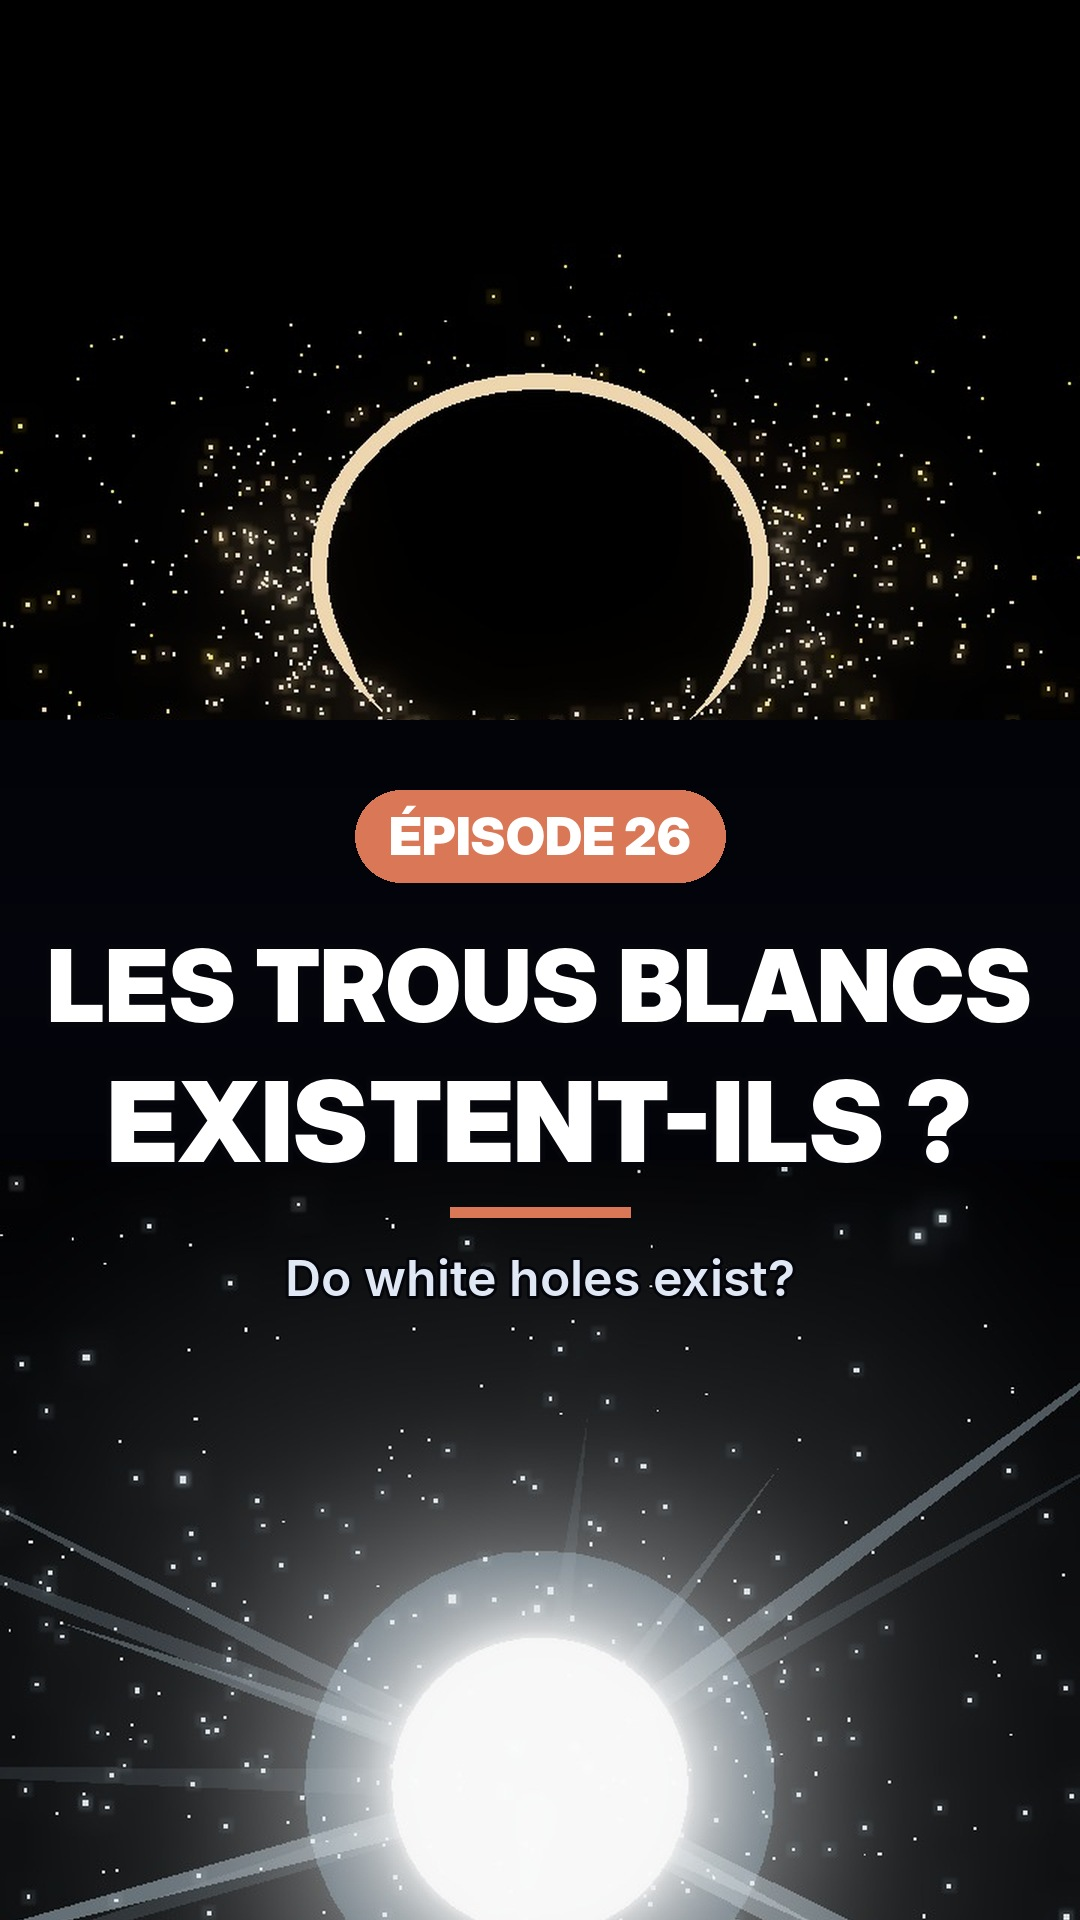
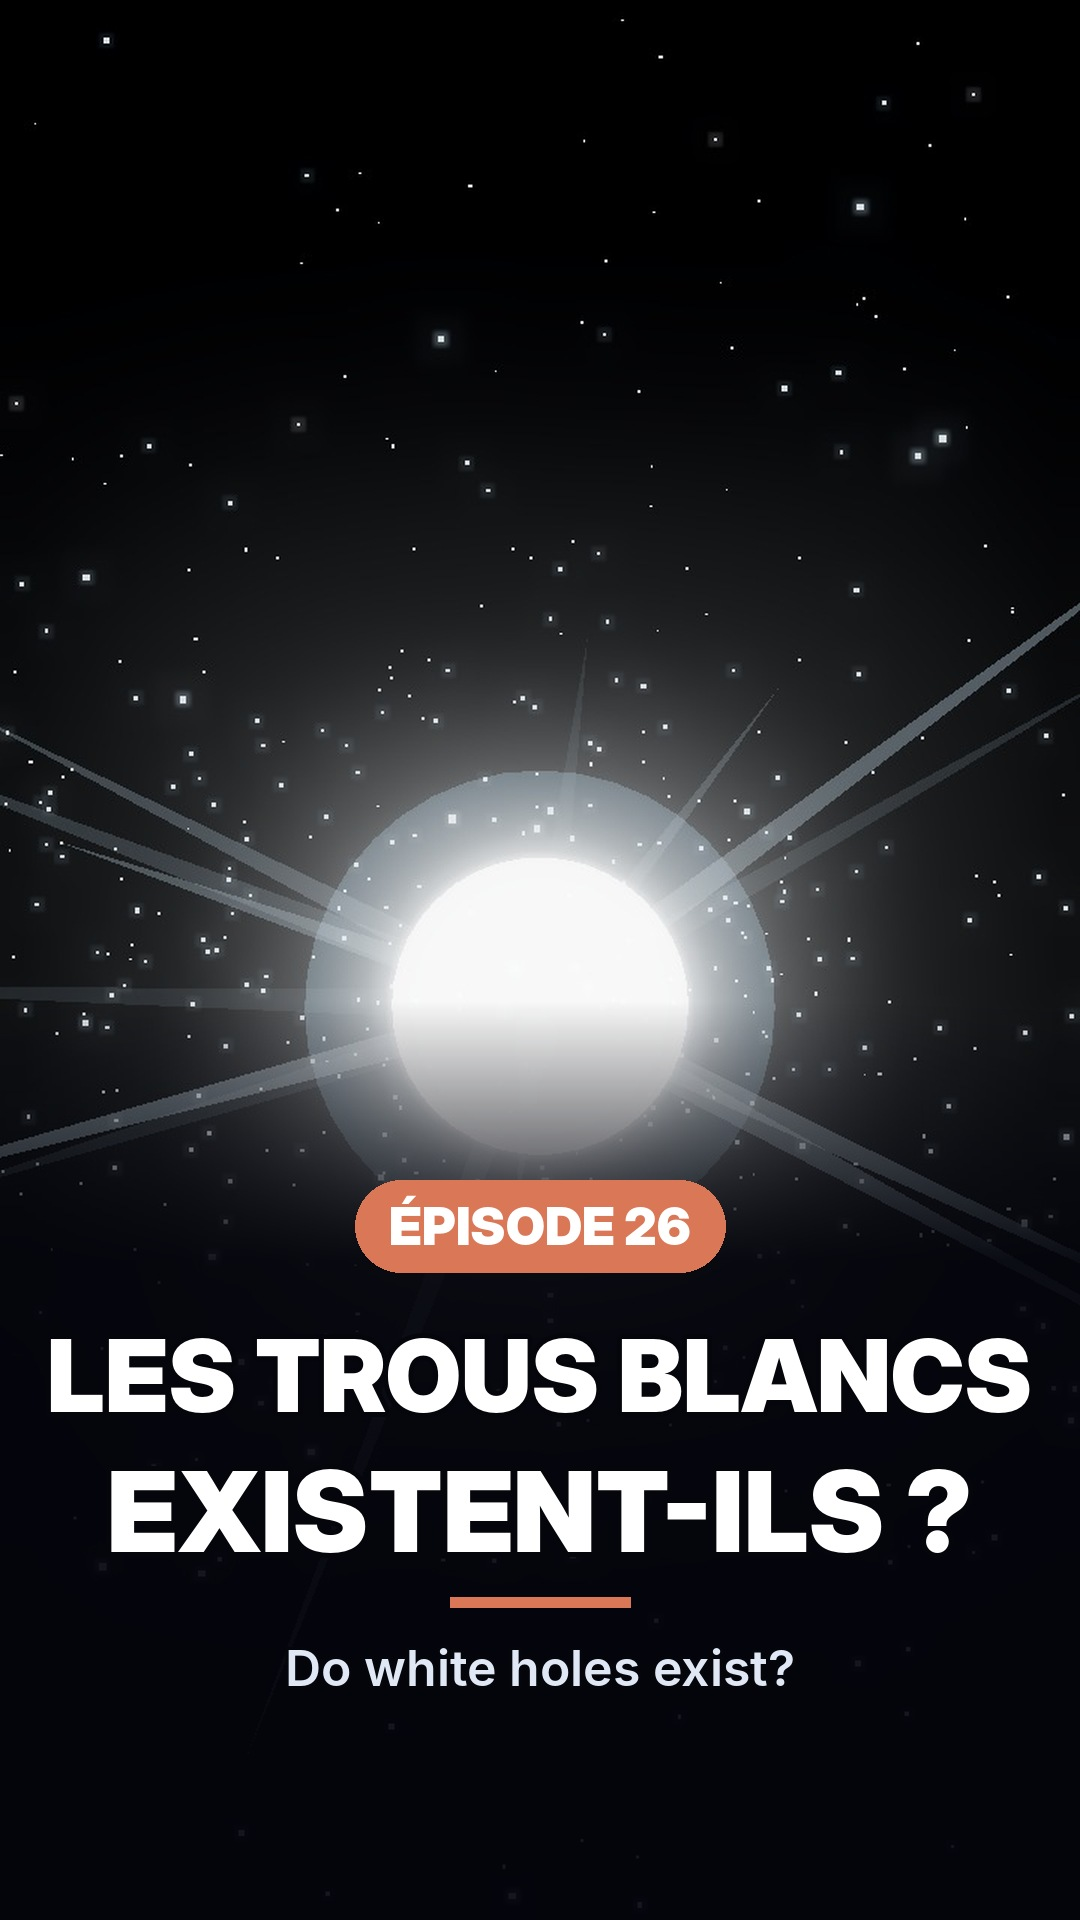
Épisode 26 : couverture centrée sur le trou blanc
Claude-Session: https://claude.ai/code/session_01Vihxwry9nwKDrZZznKang6

diff --git a/ep26/make_cover26.py b/ep26/make_cover26.py
@@ -1,4 +1,4 @@
-# Couverture de l'episode 26 : trou noir en haut, trou blanc en bas (images du rendu 3D)
+# Couverture de l'episode 26 : le trou blanc en grand (image du rendu 3D)
 from PIL import Image, ImageDraw, ImageFont, ImageFilter
 import os
 HERE = os.path.dirname(os.path.abspath(__file__))
@@ -9,16 +9,15 @@ MED = '/usr/share/fonts/opentype/inter/Inter-SemiBold.otf'
 ORANGE = (217, 119, 87)
 bh = Image.open(os.path.join(HERE, 'cov/t1.50.jpg')).convert('RGB').resize((1080, 1920), Image.LANCZOS)
 wh = Image.open(os.path.join(HERE, 'cov/t7.50.jpg')).convert('RGB').resize((1080, 1920), Image.LANCZOS)
-im = Image.new('RGB', (1080, 1920), (2, 3, 8))
-im.paste(bh.crop((0, 380, 1080, 1100)), (0, 0))
-im.paste(wh.crop((0, 380, 1080, 1140)), (0, 1160))
+# trou blanc en grand, en haut
+im = wh.copy()
 grad = Image.new('L', im.size, 0); gd = ImageDraw.Draw(grad)
-for y in range(1920): gd.line([(0, y), (1080, y)], fill=int(255 * max(0, 1 - abs(y - 960) / 230)))
+for y in range(1920): gd.line([(0, y), (1080, y)], fill=int(235 * max(0, min(1, (y - 1000) / 260))))
 im = Image.composite(Image.new('RGB', im.size, (4, 5, 12)), im, grad)
 d = ImageDraw.Draw(im)
 f = ImageFont.truetype(BOLD, 112); lines = ['LES TROUS BLANCS', 'EXISTENT-ILS ?']
 fb = ImageFont.truetype(BOLD, 52); lab = 'ÉPISODE 26'; tw = d.textlength(lab, font=fb)
-y0 = 790
+y0 = 1180
 d.rounded_rectangle([(540 - tw / 2 - 34, y0), (540 + tw / 2 + 34, y0 + 92)], radius=46, fill=ORANGE)
 d.text((540, y0 + 46), lab, font=fb, fill='white', anchor='mm')
 y = y0 + 135; lh = 128
